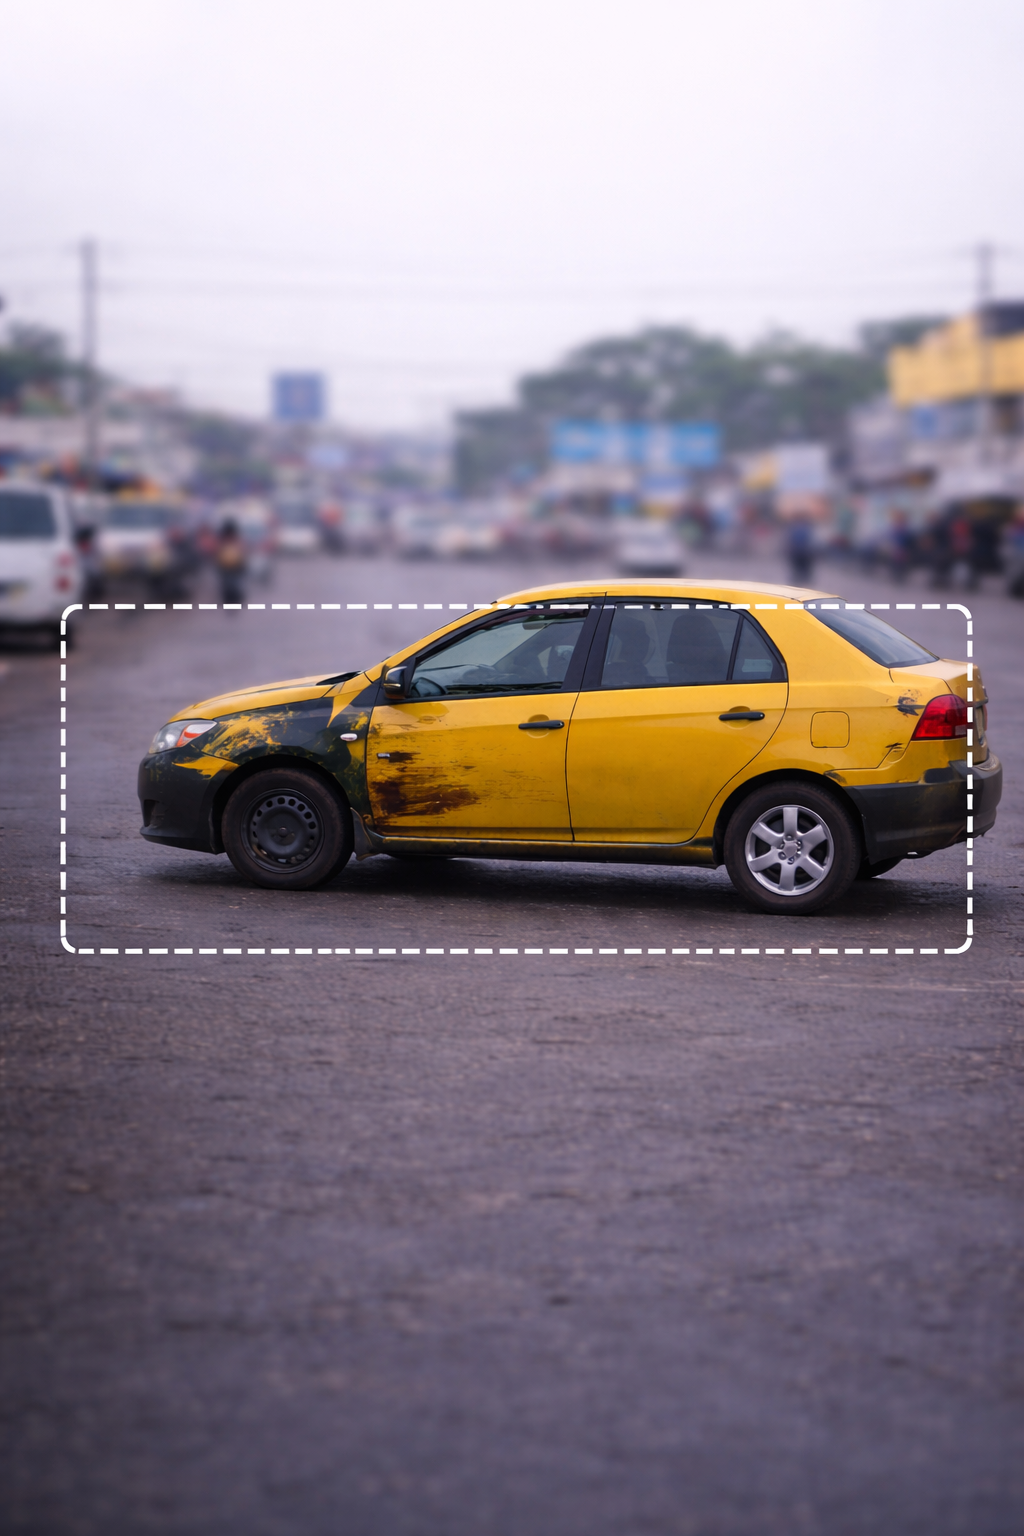
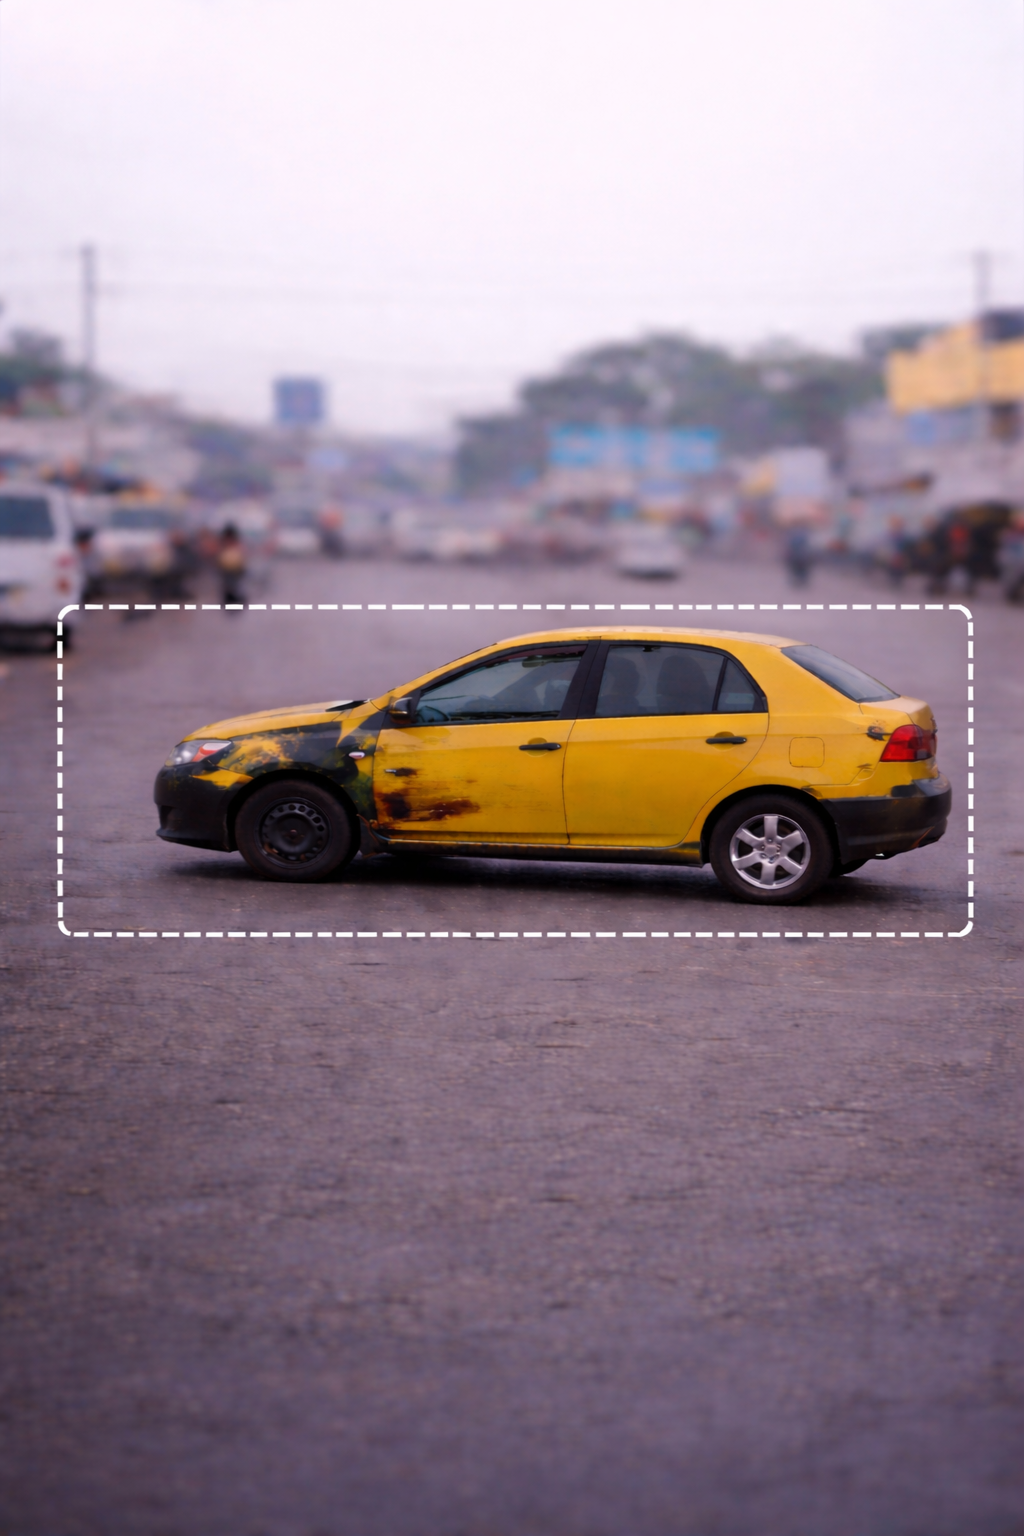
camera update

diff --git a/src/pages/VuedensembleCaptureScreen.js b/src/pages/VuedensembleCaptureScreen.js
@@ -81,6 +81,7 @@ export default function VuedensembleCaptureScreen({ navigation, route }) {
 
   const [currentStep, setCurrentStep] = useState(retakeStep || 1);
   const [cameraOpen, setCameraOpen] = useState(false);
+  const [cameraFacing, setCameraFacing] = useState("back");
   const [capturedUri, setCapturedUri] = useState(null);
   const [hasValidCapture, setHasValidCapture] = useState(false);
   const [feedbackType, setFeedbackType] = useState(null);
@@ -120,6 +121,10 @@ export default function VuedensembleCaptureScreen({ navigation, route }) {
     return { ok: true, message: "👍 Photo correcte." };
   };
 
+  const handleSwitchCamera = () => {
+    setCameraFacing((prev) => (prev === "back" ? "front" : "back"));
+  };
+
   const handleCameraPress = async () => {
     try {
       if (!permission?.granted) {
@@ -135,6 +140,7 @@ export default function VuedensembleCaptureScreen({ navigation, route }) {
 
       if (!cameraOpen) {
         setCameraOpen(true);
+        setCameraFacing("back");
         setCapturedUri(null);
         setHasValidCapture(false);
         setFeedbackType(null);
@@ -252,6 +258,7 @@ export default function VuedensembleCaptureScreen({ navigation, route }) {
             cameraRef={cameraRef}
             permissionGranted={!!permission?.granted}
             CameraViewComponent={CameraView}
+            cameraFacing={cameraFacing}
           />
         ) : (
           <VuedensembleCaptureStepBackground
@@ -261,6 +268,7 @@ export default function VuedensembleCaptureScreen({ navigation, route }) {
             cameraRef={cameraRef}
             permissionGranted={!!permission?.granted}
             CameraViewComponent={CameraView}
+            cameraFacing={cameraFacing}
           />
         )}
 
@@ -271,6 +279,7 @@ export default function VuedensembleCaptureScreen({ navigation, route }) {
           feedbackType={feedbackType}
           feedbackMessage={feedbackMessage}
           cameraOpen={cameraOpen}
+          onSwitchCamera={handleSwitchCamera}
         />
       </View>
     </SafeAreaView>

diff --git a/src/components/VuedensembleCaptureScreenComponents/VuedensembleCaptureActions.js b/src/components/VuedensembleCaptureScreenComponents/VuedensembleCaptureActions.js
@@ -17,6 +17,7 @@ export default function VuedensembleCaptureActions({
   feedbackType,
   feedbackMessage,
   cameraOpen,
+  onSwitchCamera,
 }) {
   const { width } = useWindowDimensions();
   const isSmall = width < 380;
@@ -24,6 +25,8 @@ export default function VuedensembleCaptureActions({
   const captureButtonSize = isSmall ? 76 : 84;
   const continueWidth = isSmall ? 128 : 140;
   const continueHeight = isSmall ? 42 : 46;
+  const switchWidth = isSmall ? 108 : 118;
+  const switchHeight = isSmall ? 38 : 42;
 
   return (
     <View style={styles.wrapper}>
@@ -37,6 +40,23 @@ export default function VuedensembleCaptureActions({
         >
           {feedbackMessage}
         </Text>
+      )}
+
+      {cameraOpen && (
+        <TouchableOpacity
+          activeOpacity={0.9}
+          onPress={onSwitchCamera}
+          style={[
+            styles.switchButton,
+            {
+              width: switchWidth,
+              height: switchHeight,
+              borderRadius: 12,
+            },
+          ]}
+        >
+          <Text style={styles.switchText}>Switch camera</Text>
+        </TouchableOpacity>
       )}
 
       <TouchableOpacity
@@ -109,6 +129,23 @@ const styles = StyleSheet.create({
 
   badText: {
     color: "#D63C3C",
+  },
+
+  switchButton: {
+    position: "absolute",
+    left: 24,
+    bottom: 20,
+    backgroundColor: "#2E63D8",
+    borderWidth: 1,
+    borderColor: "#2E63D8",
+    alignItems: "center",
+    justifyContent: "center",
+  },
+
+  switchText: {
+    color: "#FFFFFF",
+    fontWeight: "600",
+    fontSize: 13,
   },
 
   captureButton: {

diff --git a/src/components/VuedensembleCaptureScreenComponents/VuedensembleCaptureStepBackground.js b/src/components/VuedensembleCaptureScreenComponents/VuedensembleCaptureStepBackground.js
@@ -8,6 +8,7 @@ export default function VuedensembleCaptureStepBackground({
   cameraRef,
   permissionGranted,
   CameraViewComponent,
+  cameraFacing,
 }) {
   const showCamera = cameraOpen && permissionGranted;
   const showCapturedPhoto = !!capturedUri;
@@ -18,7 +19,7 @@ export default function VuedensembleCaptureStepBackground({
         <CameraViewComponent
           ref={cameraRef}
           style={styles.cameraOnlyView}
-          facing="back"
+          facing={cameraFacing}
         />
       </View>
     );

diff --git a/src/components/VuedensembleCaptureScreenComponents/VuedensembleCaptureFocusArea.js b/src/components/VuedensembleCaptureScreenComponents/VuedensembleCaptureFocusArea.js
@@ -10,6 +10,7 @@ export default function VuedensembleCaptureFocusArea({
   cameraRef,
   permissionGranted,
   CameraViewComponent,
+  cameraFacing,
 }) {
   const { width } = useWindowDimensions();
   const isSmall = width < 380;
@@ -27,7 +28,7 @@ export default function VuedensembleCaptureFocusArea({
         <CameraViewComponent
           ref={cameraRef}
           style={styles.cameraOnlyView}
-          facing="back"
+          facing={cameraFacing}
         />
       </View>
     );

diff --git a/src/components/SecondScreenComponents/VehicleTypeGrid.js b/src/components/SecondScreenComponents/VehicleTypeGrid.js
@@ -31,7 +31,7 @@ const VEHICLES = [
     id: "suv",
     label: "SUV",
     image: require("../../../assets/vehicles/SUV.png"),
-    scale: 1.7,
+    scale: 0.8,
   },
   {
     id: "petite_voiture",
